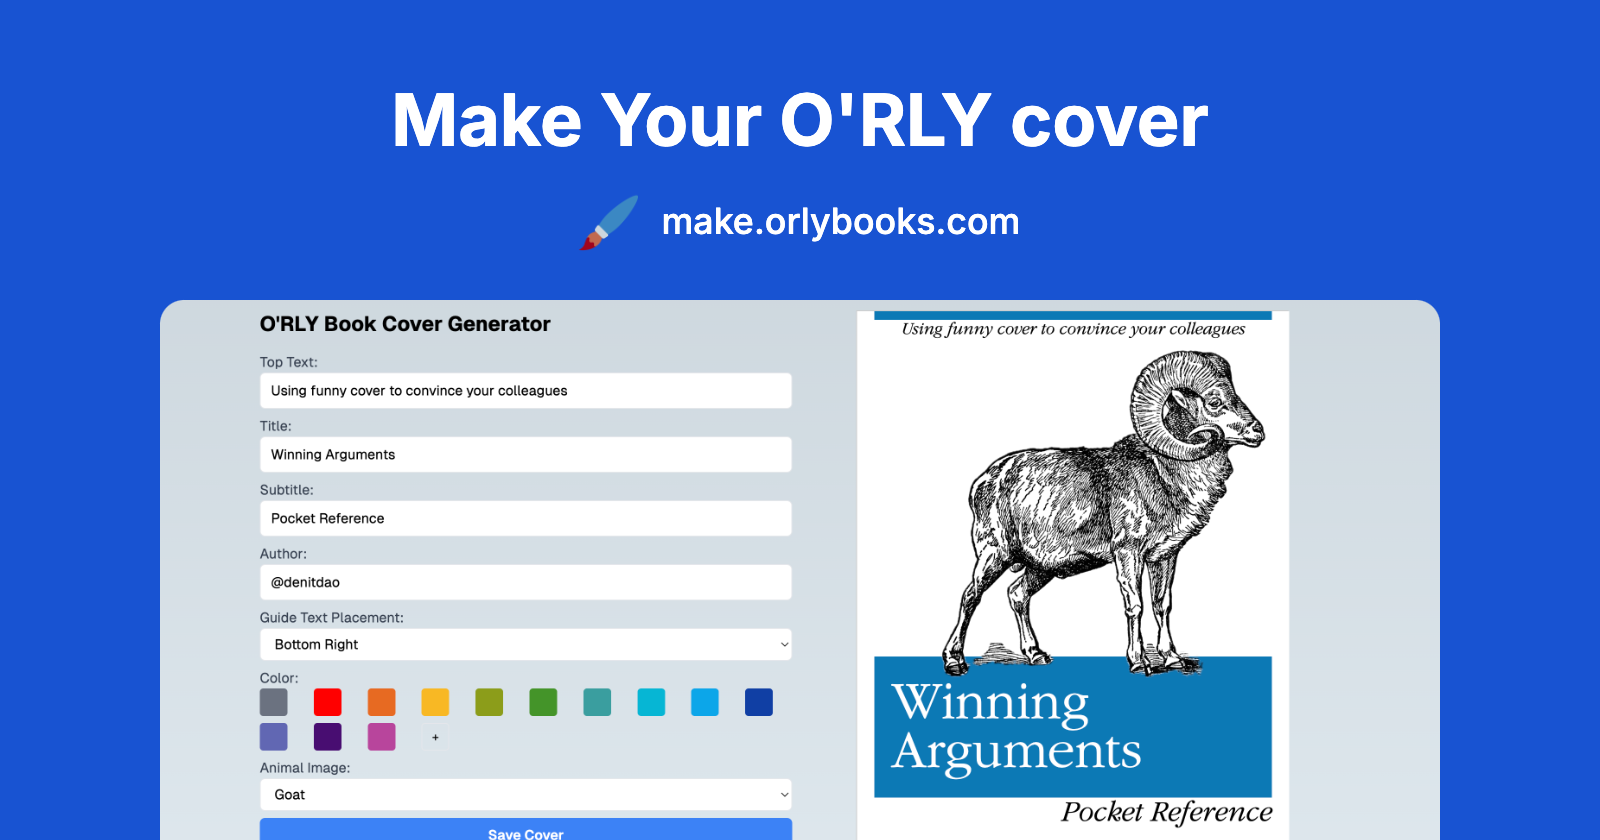
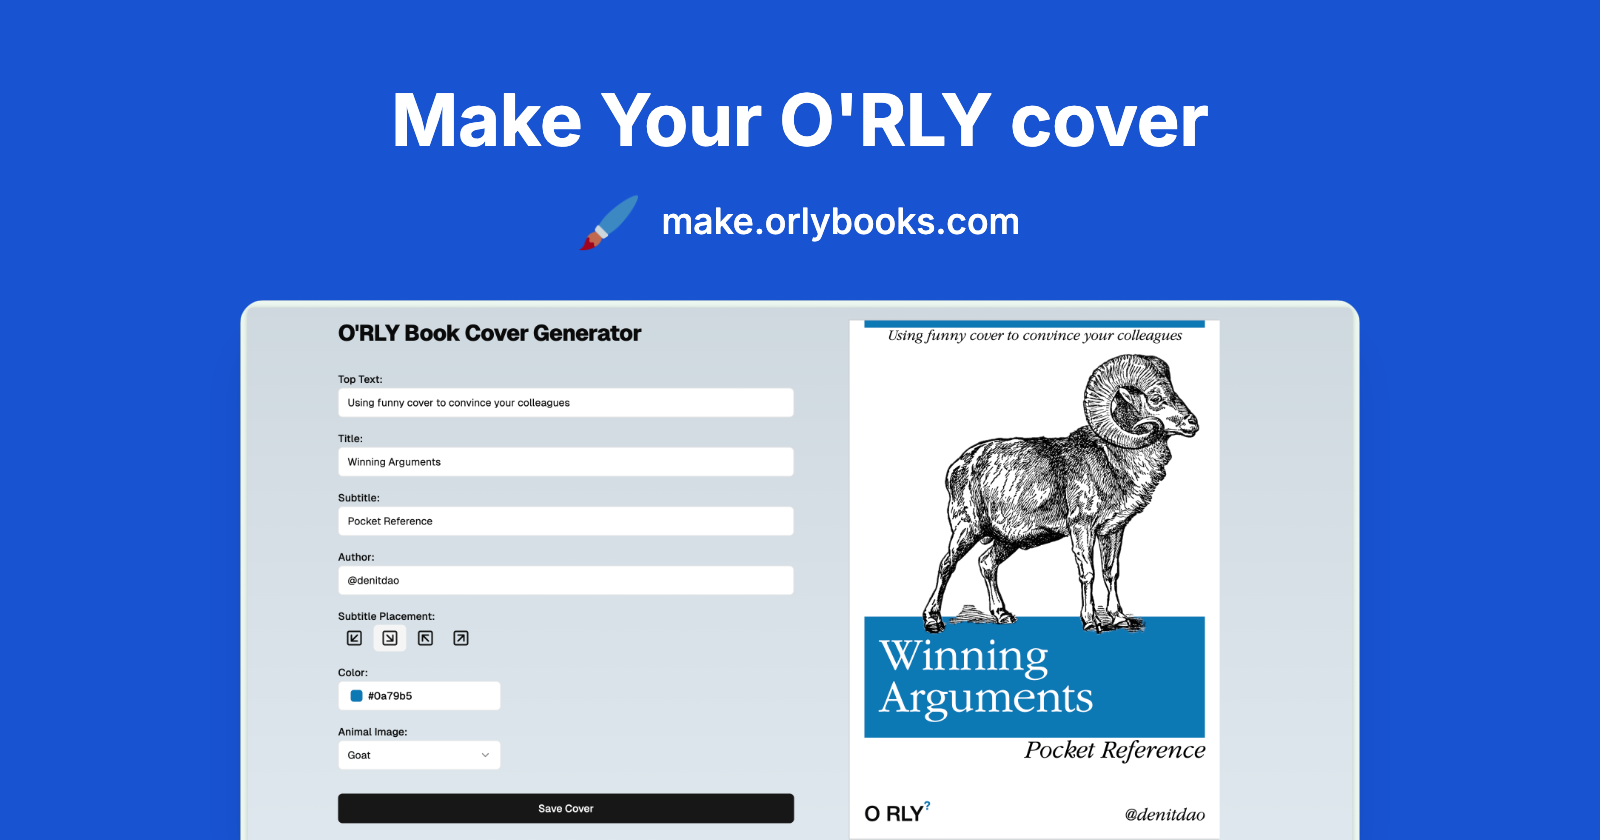
updated h1 and og

Changed region(s): [[0.0938, 0.3405, 0.9062, 1.0]]

diff --git a/src/components/CoverEditor.tsx b/src/components/CoverEditor.tsx
@@ -109,7 +109,7 @@ const CoverEditor = () => {
   return (
     <div className="flex flex-col md:flex-row md:space-x-4">
       <div className="w-full md:w-1/2">
-        <h1 className="mb-4 text-2xl font-bold">
+        <h1 className="mb-8 text-3xl font-extrabold tracking-tight">
           O&apos;RLY Book Cover Generator
         </h1>
         <div className="space-y-4">
